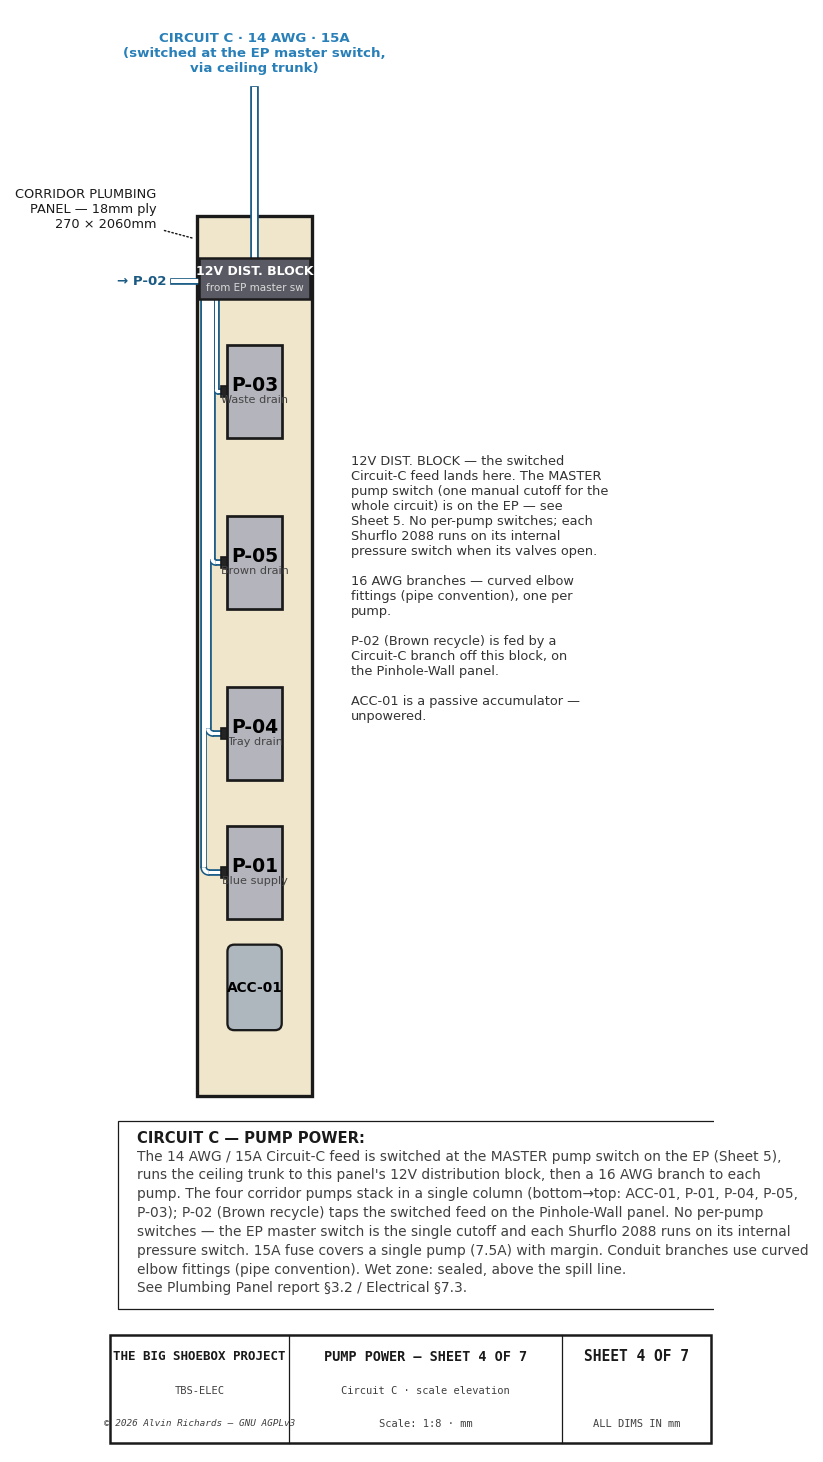
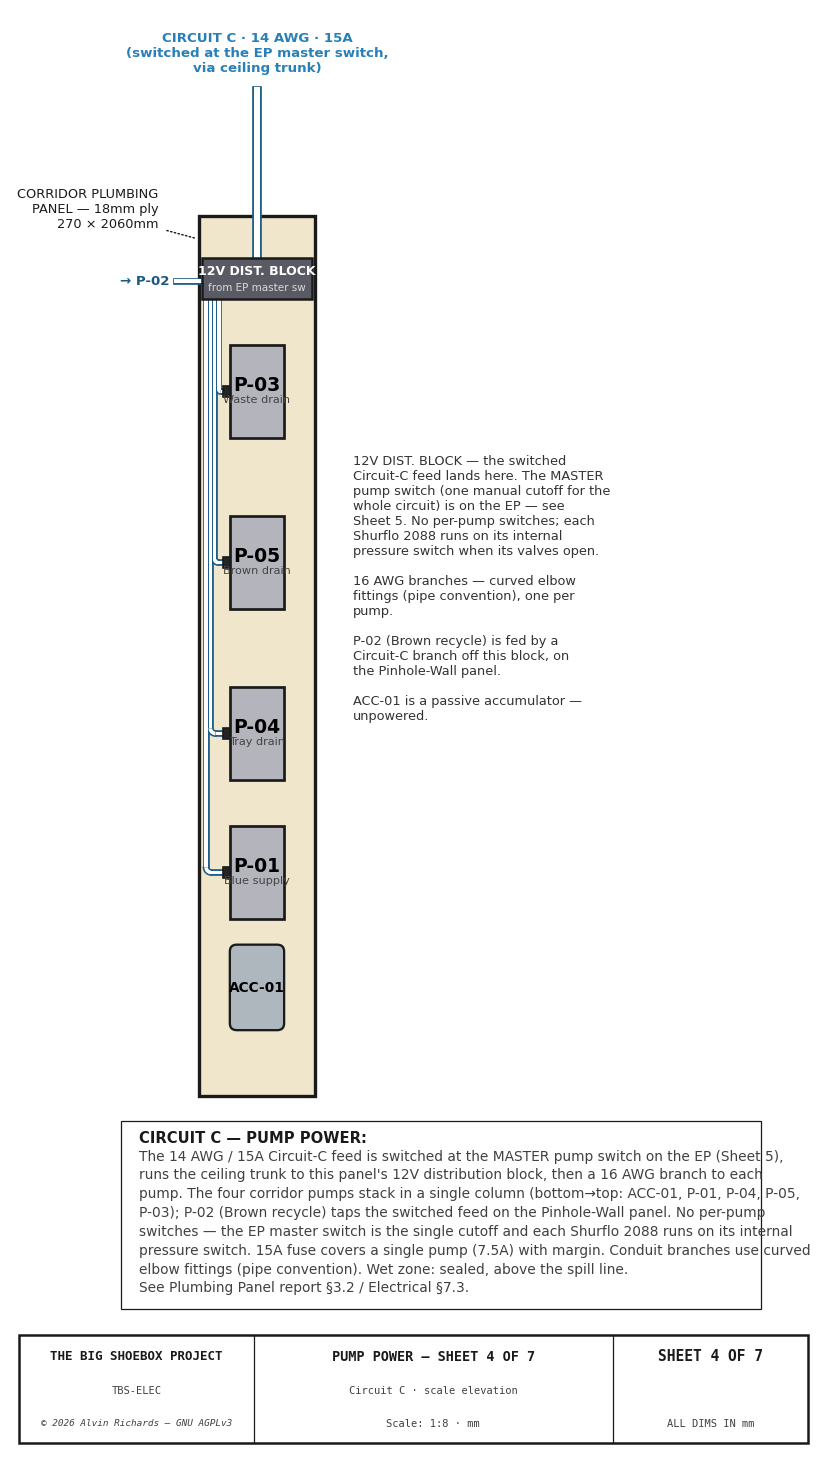
electrical Sheet 4: title block spans full page width + un-clips the copyright line
The title block is drawn in transAxes (spans the xlim), but content extended beyond the xlim (the
CORRIDOR leader on the left, the notes block border on the right), so bbox_inches=tight made the image
wider than the axes and the title block came out narrow — which also shrank its left cell until the
'© 2026 Alvin Richards — GNU AGPLv3' line clipped. Set the xlim to bound all content (-431..1433) so the
title block spans the full page and the © cell is wide enough. Verified: title-block borders now flush
with the content (1px/0px).

diff --git a/src/generators/generate_electrical_diagram.py b/src/generators/generate_electrical_diagram.py
@@ -1477,7 +1477,9 @@ def draw_sheet4():
             "ACC-01 is a passive accumulator —\nunpowered.",
             fontsize=6.2, ha="left", va="top", color="#333")
 
-    ax.set_xlim(-210, PW + 940)
+    # xlim encompasses ALL content — the CORRIDOR leader (left) and the notes block (right) — so the
+    # transAxes title block spans the full page width (and its left cell is wide enough for the © line).
+    ax.set_xlim(-431, 1433)
     ax.set_ylim(-820, PH + 470)
 
     # ── Notes + title block (clear band below the panel) ──

diff --git a/RELEASE.md b/RELEASE.md
@@ -24,6 +24,11 @@ file** — a release must not ship without a changelog entry:
 
 ## [Unreleased]
 
+- **electrical Sheet 4 title block** — the title block sat narrower than the page (the transAxes block
+  spans the xlim, but content — the CORRIDOR leader and the notes block — spilled past it), and the ©
+  line was clipped in the too-narrow left cell. Set the xlim to bound all content so the title block
+  spans the full page width; the wider left cell also un-clips the © line.
+
 - **electrical Sheet 4 note fit** — the Circuit-C pump-power note title overran the page. The title's
   parenthetical just restated the body's opening sentence, so it was shortened to
   "CIRCUIT C — PUMP POWER:" (detail kept in the body) — no page-widening or title-wrapping needed.
